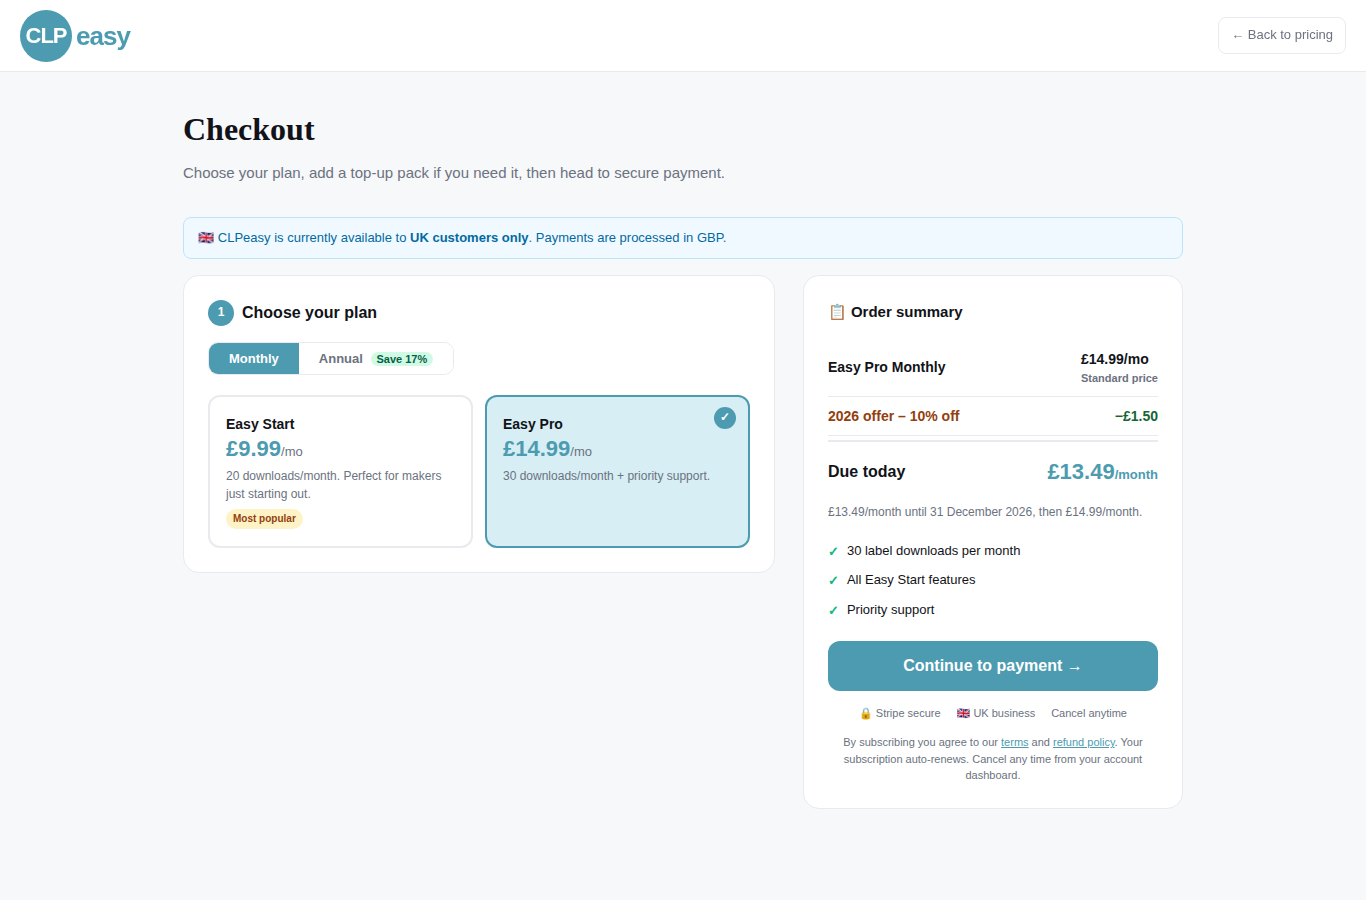
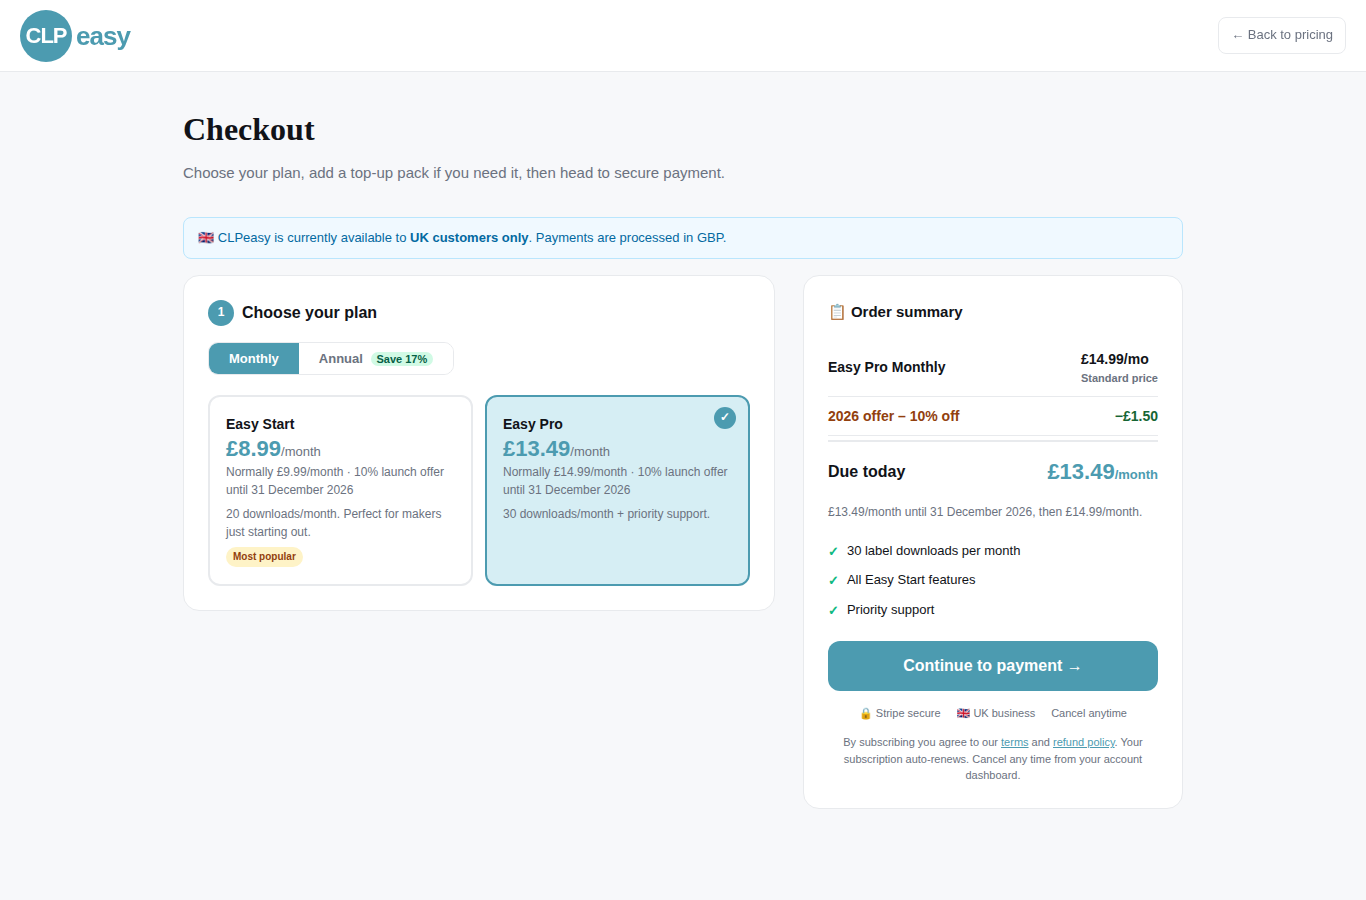
Checkout plan cards: tidy 2026 offer copy, cover annual cards, refresh evidence
- Offer cards read £8.99/month and £13.49/month, with the "Normally ...
  · 10% launch offer until 31 December 2026" line in the card's normal text
  weight (outside .plan-price) and the end date kept on one line.
- Regression coverage: exact monthly card text, text weight, unbroken date
  on desktop and iPhone; annual cards stay £99/yr and £149/yr with no 2026
  offer wording.
- Evidence screenshots regenerated from the current code, plus plan-card
  shots (monthly desktop/iPhone, annual desktop).

Claude-Session: https://claude.ai/code/session_01HGD2ZfqqXSuXf64hvZQJ5N

Changed region(s): [[0.3382, 0.4978, 0.5534, 0.6533], [0.1537, 0.4978, 0.3382, 0.6533]]

diff --git a/tests/pricing-checkout-ux.js b/tests/pricing-checkout-ux.js
@@ -127,6 +127,10 @@ server.listen(0, '127.0.0.1', async () => {
     total: document.getElementById('summary-total').textContent,
     note: getComputedStyle(document.getElementById('summary-promo-note')).display !== 'none' ? document.getElementById('summary-promo-note').textContent : '',
   }));
+  // Per card: [price line, offer line or null].
+  const cardParts = t => t.evaluate(() => [...document.querySelectorAll('#plan-grid .plan-card')].map(c => [
+    c.querySelector('.plan-price').textContent.trim(),
+    c.querySelector('.plan-offer-note') ? c.querySelector('.plan-offer-note').textContent.replace(/\s+/g, ' ').trim() : null]));
   const planCards = t => t.evaluate(() => [...document.querySelectorAll('#plan-grid .plan-card')].map(card => card.textContent.replace(/\s+/g, ' ').trim()));
   const startOn = async (t, page, plan, billing) => {
     if (page === 'pricing.html') {
@@ -149,11 +153,34 @@ server.listen(0, '127.0.0.1', async () => {
       const ctx = await browser.createBrowserContext();
       const t = await open(ctx, 'checkout.html', { nowIso: '2026-09-27T12:00:00Z', cookies: false });
       await t.evaluate(() => setBilling('monthly'));
-      const cards = await planCards(t);
-      assert(cards[0].includes('£8.99/mo') && cards[0].includes('Normally £9.99/month') && cards[0].includes('10% launch offer until 31 Dec 2026'), cards[0]);
-      assert(cards[1].includes('£13.49/mo') && cards[1].includes('Normally £14.99/month') && cards[1].includes('10% launch offer until 31 Dec 2026'), cards[1]);
+      assert.deepStrictEqual(await cardParts(t), [
+        ['£8.99/month', 'Normally £9.99/month · 10% launch offer until 31 December 2026'],
+        ['£13.49/month', 'Normally £14.99/month · 10% launch offer until 31 December 2026'],
+      ]);
+      const style = await t.evaluate(() => {
+        const n = document.querySelector('.plan-offer-note'), d = document.querySelector('.plan-desc');
+        return { noteWeight: getComputedStyle(n).fontWeight, descWeight: getComputedStyle(d).fontWeight, nowrap: getComputedStyle(n.querySelector('.nowrap')).whiteSpace };
+      });
+      assert.deepStrictEqual(style, { noteWeight: style.descWeight, descWeight: style.descWeight, nowrap: 'nowrap' }, 'offer line uses the card text weight; end date never splits');
       await ctx.close();
     });
+
+    for (const [name, vp] of [['desktop', DESKTOP], ['mobile', IPHONE]]) {
+      await check(`checkout.html (${name}): monthly offer cards fit, the end date stays on one line, screenshot`, async () => {
+        const ctx = await newCustomer();
+        const t = await open(ctx, 'checkout.html', { viewport: vp, nowIso: '2026-10-01T12:00:00Z', cookies: false });
+        await t.evaluate(() => setBilling('monthly'));
+        const g = await t.evaluate(() => ({
+          dateLines: [...document.querySelectorAll('.plan-offer-note .nowrap')].map(e => e.getClientRects().length),
+          overflow: [...document.querySelectorAll('#plan-grid .plan-card')].some(c => c.scrollWidth > c.clientWidth + 1),
+          hscroll: document.documentElement.scrollWidth > window.innerWidth,
+        }));
+        assert.deepStrictEqual(g, { dateLines: [1, 1], overflow: false, hscroll: false });
+        await t.evaluate(() => { document.getElementById('plan-grid').scrollIntoView({ block: 'start', behavior: 'instant' }); window.scrollBy(0, -140); });
+        await t.screenshot({ path: path.join(SHOTS, `checkout-plan-cards-monthly-${name}.png`) });
+        await ctx.close();
+      });
+    }
 
     await check('checkout.html: Easy Start MONTHLY summary = standard £9.99, 2026 offer −£1.00, due today £8.99/month', async () => {
       const ctx = await newCustomer();
@@ -187,13 +214,16 @@ server.listen(0, '127.0.0.1', async () => {
       await ctx.close();
     });
     for (const [plan, label, total] of [['easy_start', 'Easy Start Annual', '£99.00'], ['easy_pro', 'Easy Pro Annual', '£149.00']]) {
-      await check(`checkout.html: ${label} is never discounted (due today ${total})`, async () => {
+      await check(`checkout.html: ${label} card and summary are never discounted (due today ${total})`, async () => {
         const ctx = await newCustomer();
         const t = await open(ctx, 'checkout.html', { nowIso: '2026-10-01T12:00:00Z', cookies: false });
         await t.evaluate(p => { setBilling('annual'); selectPlan(p); }, plan);
         const s = await summary(t);
         assert.deepStrictEqual([s.plan, s.promoRow, s.total, s.note], [label, false, total, '']);
         assert(!/Standard price/.test(s.price));
+        assert.deepStrictEqual(await cardParts(t), [['£99/yr', null], ['£149/yr', null]], 'annual cards: £99 / £149, no 2026 offer');
+        assert(!/launch offer|Normally|2026/.test((await planCards(t)).join(' ')), 'no promotional wording on annual cards');
+        if (plan === 'easy_start') { await new Promise(r => setTimeout(r, 400)); await t.screenshot({ path: path.join(SHOTS, 'checkout-plan-cards-annual-desktop.png') }); } // after the toggle's .2s transition
         await ctx.close();
       });
     }
@@ -204,8 +234,8 @@ server.listen(0, '127.0.0.1', async () => {
       const s = await summary(t);
       assert.deepStrictEqual([s.price, s.promoRow, s.total, s.note], ['£9.99/mo', false, '£9.99', '']);
       const cards = await planCards(t);
-      assert(cards[0].includes('£9.99/mo') && !cards[0].includes('launch offer'), cards[0]);
-      assert(cards[1].includes('£14.99/mo') && !cards[1].includes('launch offer'), cards[1]);
+      assert.deepStrictEqual(await cardParts(t), [['£9.99/mo', null], ['£14.99/mo', null]], '2027: standard monthly cards, no offer');
+      assert(!cards.join(' ').includes('launch offer'));
       await t.evaluate(() => selectPlan('easy_pro'));
       assert.strictEqual((await summary(t)).total, '£14.99');
       await ctx.close();

diff --git a/checkout.html b/checkout.html
@@ -50,6 +50,8 @@ nav{position:sticky;top:0;z-index:100;background:rgba(255,255,255,0.97);backdrop
 .plan-price{font-size:22px;font-weight:900;color:var(--teal);line-height:1.1;}
 .plan-price span{font-size:13px;font-weight:500;color:var(--muted);}
 .plan-desc{font-size:12px;color:var(--muted);margin-top:6px;line-height:1.5;}
+.plan-offer-note{font-size:12px;color:var(--muted);margin-top:3px;line-height:1.45;}
+.plan-offer-note .nowrap{white-space:nowrap;}
 .plan-badge{display:inline-block;font-size:10px;font-weight:700;padding:2px 7px;border-radius:20px;margin-top:6px;}
 .plan-badge.save{background:#D1FAE5;color:#065F46;}
 .plan-badge.popular{background:var(--amber-light);color:#92400E;}
@@ -347,20 +349,22 @@ function renderPlans() {
   const grid = document.getElementById('plan-grid');
   const startPromo = monthlyPromo(plans.easy_start);
   const proPromo = monthlyPromo(plans.easy_pro);
+  // Offer line sits outside .plan-price so it keeps the card's normal text
+  // weight; the end date is kept on one line.
   const planPrice = (plan, promo) => promo
-    ? gbp(promo.due) + '<span>/mo</span><div style="font-size:11px;color:var(--muted);margin-top:2px;">Normally ' + plan.price + '/month · 10% launch offer until 31 Dec 2026</div>'
-    : plan.price + '<span>' + (billing === 'monthly' ? '/mo' : '/yr') + '</span>';
+    ? '<div class="plan-price">' + gbp(promo.due) + '<span>/month</span></div><div class="plan-offer-note">Normally ' + plan.price + '/month · 10% launch offer until <span class="nowrap">31 December 2026</span></div>'
+    : '<div class="plan-price">' + plan.price + '<span>' + (billing === 'monthly' ? '/mo' : '/yr') + '</span></div>';
   grid.innerHTML = `
     <div class="plan-card ${selectedPlan === 'easy_start' ? 'selected' : ''}" onclick="selectPlan('easy_start')">
       <div class="plan-name">Easy Start</div>
-      <div class="plan-price">${planPrice(plans.easy_start, startPromo)}</div>
+      ${planPrice(plans.easy_start, startPromo)}
       ${billing === 'monthly' ? '' : '<div style="font-size:11px;color:var(--muted);margin-top:2px;">£8.25/mo billed annually</div>'}
       <div class="plan-desc">20 downloads/month. Perfect for makers just starting out.</div>
       ${billing === 'annual' ? '<div class="plan-badge save">Save £20.88/yr</div>' : '<div class="plan-badge popular">Most popular</div>'}
     </div>
     <div class="plan-card ${selectedPlan === 'easy_pro' ? 'selected' : ''}" onclick="selectPlan('easy_pro')">
       <div class="plan-name">Easy Pro</div>
-      <div class="plan-price">${planPrice(plans.easy_pro, proPromo)}</div>
+      ${planPrice(plans.easy_pro, proPromo)}
       ${billing === 'monthly' ? '' : '<div style="font-size:11px;color:var(--muted);margin-top:2px;">£12.42/mo billed annually</div>'}
       <div class="plan-desc">30 downloads/month + priority support.</div>
       ${billing === 'annual' ? '<div class="plan-badge save">Save £30.88/yr</div>' : ''}

diff --git a/docs/reports/pricing-checkout-ux/README.md b/docs/reports/pricing-checkout-ux/README.md
@@ -5,6 +5,8 @@ Screenshots from `node tests/pricing-checkout-ux.js`: real pages in Chromium, Su
 | File | Shows |
 |---|---|
 | `pricing-desktop.png`, `pricing-mobile*.png` | Card icons: Easy Trial ✨ and Easy Pro ⚡ unchanged; new inline-SVG Pay As You Go (contactless card) and Easy Start (clipboard with tick) |
+| `checkout-plan-cards-monthly-{desktop,mobile}.png` | Plan-choice cards during the 2026 offer: Easy Start £8.99/month and Easy Pro £13.49/month, "Normally £9.99/month" / "Normally £14.99/month · 10% launch offer until 31 December 2026" |
+| `checkout-plan-cards-annual-desktop.png` | Annual cards £99/yr and £149/yr, no 2026 offer |
 | `checkout-summary-easy-start-monthly-{desktop,mobile}.png` | £9.99/mo standard price, "2026 offer – 10% off" −£1.00, due today £8.99/month |
 | `checkout-summary-easy-pro-monthly-desktop.png` | £14.99/mo standard price, −£1.50, due today £13.49/month |
 | `indicator-pricing-desktop.png`, `indicator-pricing-mobile.png`, `indicator-checkout-mobile.png` | Header "Checkout in progress" indicator |
